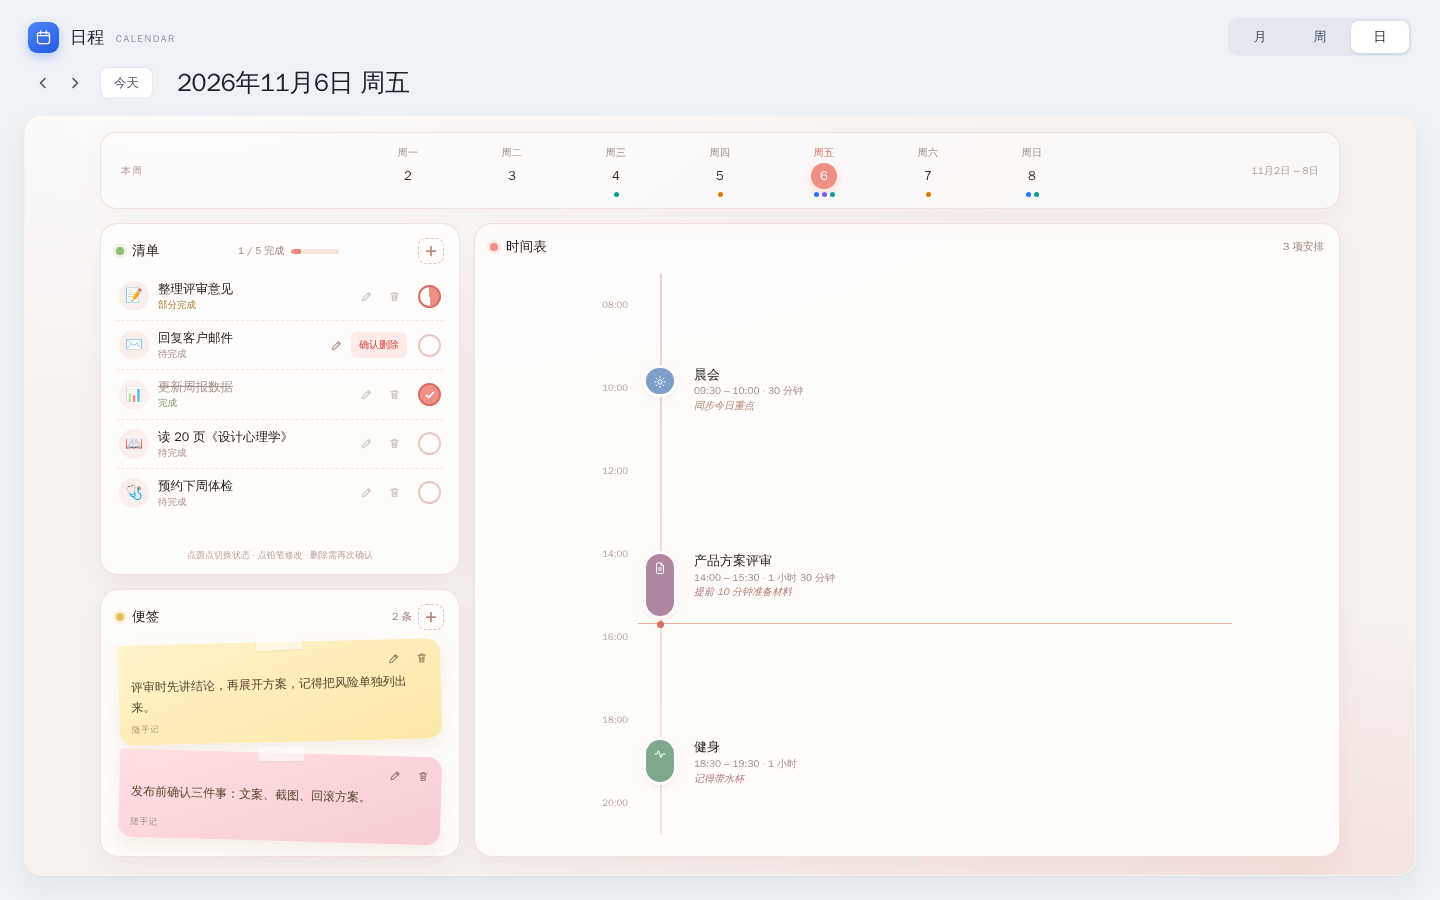
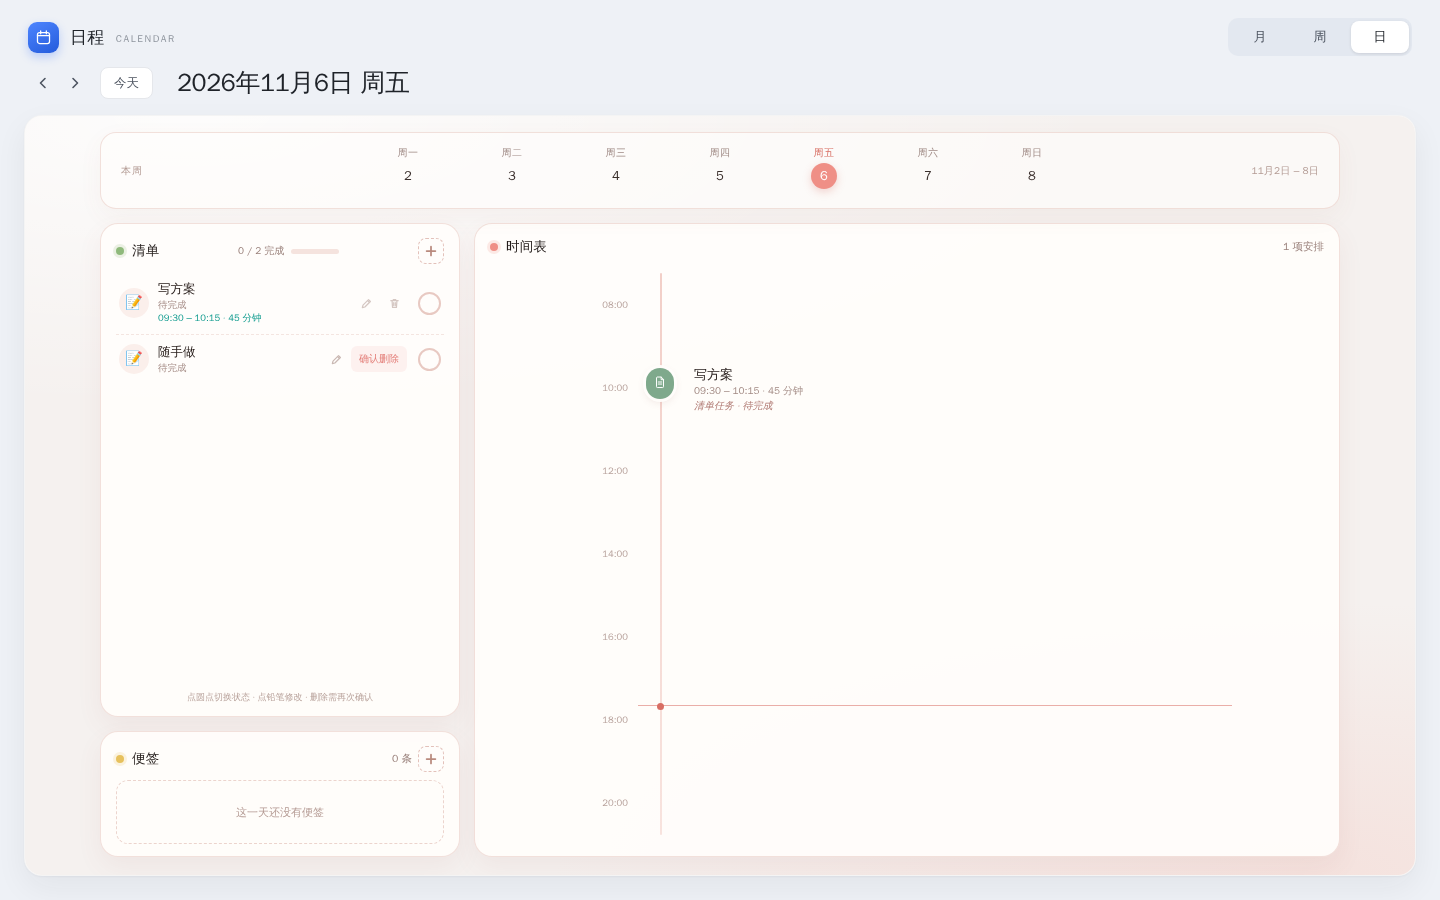
feat(data): start the calendar blank
Clear the demo events, notes and tasks so the app opens empty, per the
demand owner's request. Both day panels and the week/month views show their
empty states; every item is created through the UI. Refresh the after
screenshots and docs to describe the blank start.

diff --git a/src/data.js b/src/data.js
@@ -1,46 +1,12 @@
-import { addDays, startOfDay, toDateKey } from './calendar.js';
-
 /**
- * Local demo data. There is no persistence: the day view's in-memory inbox
+ * Blank starting data.
+ *
+ * The demo intentionally starts with no sample events, notes or tasks at the
+ * demand owner's request, so the calendar opens empty and every item is
+ * created through the UI. There is still no persistence: the in-memory inbox
  * store (src/modules/inbox) is seeded from these arrays, and add / edit /
  * delete results live only for the current page session.
  */
-const relativeDay = (offset) => toDateKey(addDays(startOfDay(new Date()), offset));
-
-export const sampleEvents = [
-  { id: 'evt-01', title: '晨会', date: relativeDay(0), start: '09:30', end: '10:00', color: 'blue', icon: 'sun', note: '同步今日重点' },
-  { id: 'evt-02', title: '产品方案评审', date: relativeDay(0), start: '14:00', end: '15:30', color: 'violet', icon: 'doc', note: '提前 10 分钟准备材料' },
-  { id: 'evt-03', title: '健身', date: relativeDay(0), start: '18:30', end: '19:30', color: 'teal', icon: 'activity', note: '记得带水杯' },
-  { id: 'evt-04', title: '设计走查', date: relativeDay(1), start: '10:00', end: '11:00', color: 'orange', icon: 'search', note: '带上检查清单' },
-  { id: 'evt-05', title: '周会', date: relativeDay(2), start: '09:00', end: '10:00', color: 'blue', icon: 'users' },
-  { id: 'evt-06', title: '需求对齐', date: relativeDay(2), start: '11:00', end: '12:00', color: 'teal', icon: 'link' },
-  { id: 'evt-07', title: '客户沟通', date: relativeDay(3), start: '15:00', end: '16:00', color: 'violet', icon: 'chat' },
-  { id: 'evt-08', title: '周复盘', date: relativeDay(-1), start: '16:00', end: '17:00', color: 'orange', icon: 'refresh' },
-  { id: 'evt-09', title: '阅读与整理', date: relativeDay(-2), start: '20:00', end: '21:00', color: 'teal', icon: 'book' },
-  { id: 'evt-10', title: '徒步计划', date: relativeDay(5), start: '08:00', end: '12:00', color: 'orange', icon: 'map' },
-];
-
-export const sampleNotes = [
-  {
-    id: 'note-01',
-    date: relativeDay(0),
-    text: '评审时先讲结论，再展开方案，记得把风险单独列出来。',
-    tone: 'yellow',
-    tilt: -1.4,
-  },
-  {
-    id: 'note-02',
-    date: relativeDay(0),
-    text: '发布前确认三件事：文案、截图、回滚方案。',
-    tone: 'pink',
-    tilt: 1.6,
-  },
-];
-
-export const sampleTasks = [
-  { id: 'task-01', title: '整理评审意见', icon: '📝', status: 'partial' },
-  { id: 'task-02', title: '回复客户邮件', icon: '✉', status: 'todo' },
-  { id: 'task-03', title: '更新周报数据', icon: '📊', status: 'done' },
-  { id: 'task-04', title: '读 20 页《设计心理学》', icon: '📖', status: 'todo' },
-  { id: 'task-05', title: '预约下周体检', icon: '🩺', status: 'todo' },
-];
+export const sampleEvents = [];
+export const sampleNotes = [];
+export const sampleTasks = [];

diff --git a/docs/interfaces.md b/docs/interfaces.md
@@ -10,7 +10,7 @@
 ```
 src/calendar.js    纯日期 / 网格 / 时间布局函数（无 DOM、无副作用）
 src/tasks.js       任务三态与进度统计（无 DOM）
-src/data.js        当前静态示例数据（可被数据源替换）
+src/data.js        空白种子数据（首次加载无示例内容，可被数据源替换）
 src/app.js         应用控制器：状态、视图分发、DOM 事件
 src/modules/inbox/ 清单 / 便签编辑模块（store + 面板渲染 + 模块样式）
 index.html         页面骨架与工具栏
@@ -79,11 +79,11 @@ interface Task {
 - 清单任务标题 1–80 个字符，便签文本 1–200 个字符；首尾空白会被去掉。
 - 任务时间：`start` 为 07:00–20:59 的 `HH:mm`，`duration` 为 5–720 分钟的整数，结束时间不得晚于 21:00（日视图时间表范围）。
 - 未填时间的任务不绑定日期，仍是全局 Inbox；填写时间后绑定 `date`，日视图时间表按该日派生事件展示。
-- 清单 / 便签的新增、修改、删除只保存在当前页面会话（内存 store），刷新后恢复示例数据。
+- 清单 / 便签的新增、修改、删除只保存在当前页面会话（内存 store），刷新后恢复空白初始状态。
 
 ### 2.4 示例数据
 
-`src/data.js` 导出 `sampleEvents`、`sampleNotes`、`sampleTasks`，日期相对浏览器当天（`relativeDay(offset)`）。示例只用于本地演示，不含真实用户数据。
+`src/data.js` 导出 `sampleEvents`、`sampleNotes`、`sampleTasks`，当前均为空数组：按需求方要求首次加载不显示示例内容，日程 / 清单 / 便签都从空白开始，通过 UI 新增。文件仍保留为数据源替换点；任何示例数据不得包含真实用户隐私、飞书私有内容、凭据或 token。
 
 ## 3. 纯函数接口
 

diff --git a/docs/integration.md b/docs/integration.md
@@ -3,7 +3,7 @@
 版本：`0.3`
 配套接口：`docs/interfaces.md`
 
-本文档描述如何把「日程」接到真实数据源、如何新增模块，以及本地 / 公网预览的注意事项。当前实现是**零依赖静态页 + 示例数据**，尚未接入后端；文中标注“建议”或“尚未实现”的部分属于后续对接契约，不是现有能力。
+本文档描述如何把「日程」接到真实数据源、如何新增模块，以及本地 / 公网预览的注意事项。当前实现是**零依赖静态页 + 空白种子数据**，尚未接入后端；文中标注“建议”或“尚未实现”的部分属于后续对接契约，不是现有能力。
 
 ## 1. 当前运行方式
 
@@ -12,8 +12,8 @@ npm start                 # 本地静态服务，默认 http://127.0.0.1:4173
 ```
 
 - 入口：`index.html` → `src/app.js`。
-- 数据：`src/data.js` 的 `sampleEvents` / `sampleNotes` / `sampleTasks`，日期相对浏览器当天。
-- 状态：视图、锚点日期、清单 / 便签都在页面内存中（`src/modules/inbox/store.js`）；刷新后恢复示例初始值。
+- 数据：`src/data.js` 的 `sampleEvents` / `sampleNotes` / `sampleTasks`，当前均为空数组，首次加载为空白日历。
+- 状态：视图、锚点日期、清单 / 便签都在页面内存中（`src/modules/inbox/store.js`）；刷新后恢复空白初始状态。
 - 清单 / 便签的增删改由 `src/modules/inbox` 负责，store 通过 `services.inbox` 注入；清单任务可选时间会在日视图时间表派生事件；目前没有持久化。
 - 没有构建步骤、没有运行时依赖、没有网络请求。
 

diff --git a/README.md b/README.md
@@ -24,7 +24,7 @@ npm start
 
 ## 暂不包含
 
-清单与便签的新增 / 修改 / 删除只保存在当前页面会话，刷新后恢复示例值；日程的增删改、持久化、后端接口、提醒、协作、多日历、全天日程、时区处理不在当前范围。示例日程、便签与任务硬编码在 `src/data.js`。
+清单与便签的新增 / 修改 / 删除只保存在当前页面会话，刷新后恢复空白初始状态；日程的增删改、持久化、后端接口、提醒、协作、多日历、全天日程、时区处理不在当前范围。初始数据在 `src/data.js`，当前为空数组（首次加载不显示示例内容）。
 
 ## 测试
 
@@ -41,7 +41,7 @@ index.html           页面骨架与工具栏
 assets/styles.css    日历样式
 src/calendar.js      纯日期 / 布局逻辑（可单测）
 src/tasks.js         任务三态与进度统计（可单测）
-src/data.js          示例日程、便签与任务
+src/data.js          空白种子数据（首次加载无示例内容）
 src/app.js           视图渲染与交互
 src/modules/inbox/   清单 / 便签编辑模块（store、面板、样式、单测）
 src/modules/         模块目录与注册约定（契约见 docs）

diff --git a/AGENTS.md b/AGENTS.md
@@ -8,7 +8,7 @@
 
 - 月 / 周 / 天三种视图与日期导航、视图切换、键盘快捷键、`?view=&date=` 深链。
 - 日视图：周条、时间表、便签、任务清单，任务支持 `待完成 / 部分完成 / 完成` 三态切换。
-- 示例数据驱动，无后端、无持久化。
+- 空白数据启动（示例内容已清空，通过 UI 新增），无后端、无持久化。
 
 **主干文件**：
 
@@ -18,7 +18,7 @@ assets/styles.css             全局与三视图样式
 src/app.js                    应用控制器、视图分发、交互
 src/calendar.js               纯日期 / 布局逻辑
 src/tasks.js                  任务三态与进度统计
-src/data.js                   当前静态示例数据
+src/data.js                   空白种子数据（首次加载无示例内容）
 docs/interfaces.md            接口说明
 docs/integration.md           对接文档
 ```

diff --git a/src/modules/inbox/README.md b/src/modules/inbox/README.md
@@ -77,6 +77,6 @@ mountInbox({
 - 未填时间的任务属于全局未排期 Inbox，不绑定日期；填写开始 / 持续后绑定日期（新增时取当前日视图日期，编辑已有定时任务时保留原日期），并同步到该日时间表。
 - 便签按锚点日期展示与新增。
 - 时间表事件由主干渲染；模块通过 `services.inbox.listCalendarEvents(date)` 提供派生事件，主干的 store 订阅负责刷新时间表，不重挂侧栏。
-- 数据只在当前页面会话有效，刷新后回到 `src/data.js` 示例值；持久化与后端接入见 `docs/integration.md`。
+- 数据只在当前页面会话有效，刷新后回到 `src/data.js` 的空白初始值；持久化与后端接入见 `docs/integration.md`。
 - 删除为两步确认，不提供撤销。
 - 不提供修改定时任务日期的入口；日期在新增 / 首次填写时间时确定。
